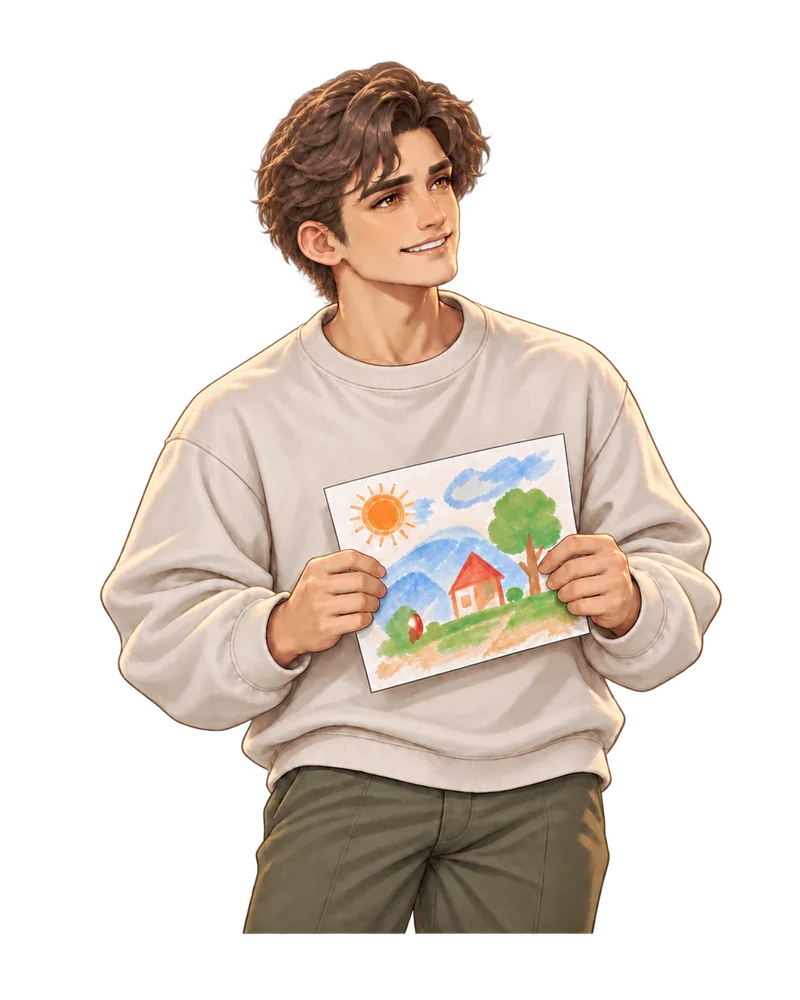
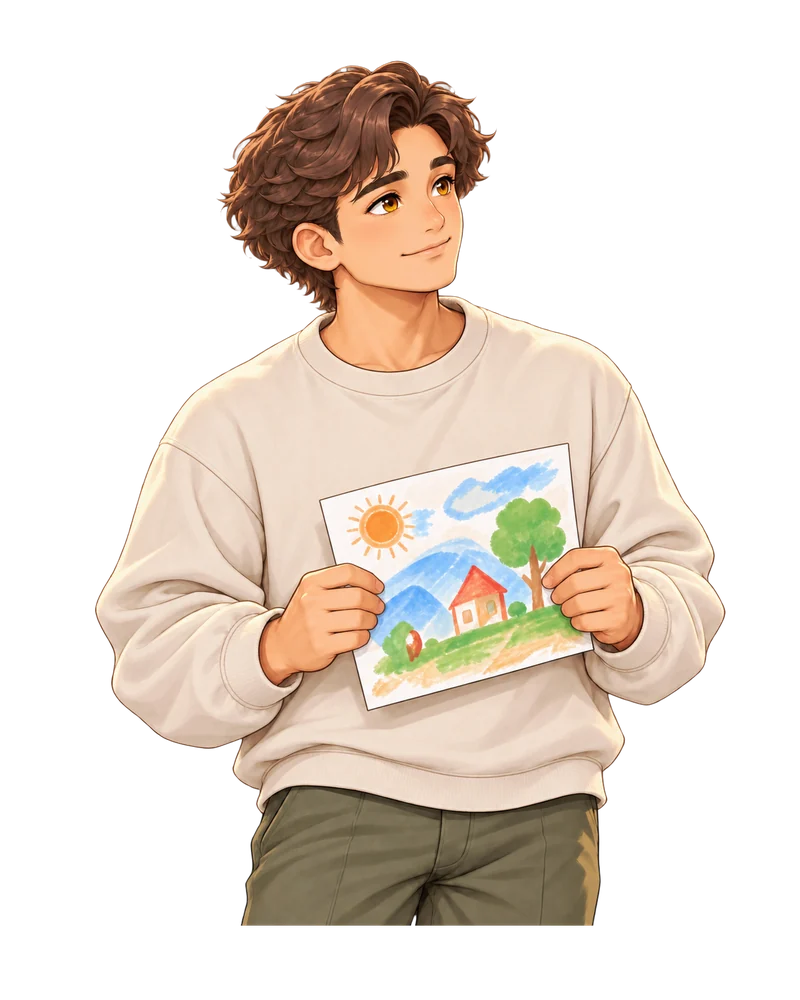
과학자 전용 음료 작업대 11종, 레온 그림 되돌림, 깨진 핀 그림 수정
- 과학자가 일반 메뉴 대신 자기 전용 음료를 주문 (첫 방문·두 번째 방문 주문이 다름)
- 작업대 조작이 발견과 이어짐: 저울(질량 보존), 여러 번 거르기, 인덕션(전자기 유도), 물시계,
  타원 붓기(케플러 제2법칙), 빈칸 맞히기(주기율표), 깜빡이는 별(주기-광도), 교배(종의 합성),
  계단 불빛(에너지 준위), 기체 무게, 둘로 나누기(핵분열)
- 과학자 주문·반응 대사를 전용 음료에 맞게 바꿈, 특별 음료 도감에서도 만들어 보기
- 레온은 표정마다 머리숱이 달라 이전 그림으로, 덜 저장된 핀 기본 표정 다시 변환

Claude-Session: https://claude.ai/code/session_01PHaqw3vR3xwnkj3Zi9aRU5

Changed region(s): [[0.0938, 0.062, 0.9062, 0.961]]

diff --git a/index.html b/index.html
@@ -1075,8 +1075,107 @@ const labT=m=>{const K=LABK[m.kind];return m.T?Object.fromEntries(m.T.map(k=>[k,
 const RAWS=k=>{const m=MENUS[k];return m.station==='extract'?D.EXTRACT_RAW[k]:m.station==='lab'?m.raw:[...new Set(m.recipe.map(RAW))]};
 const STN={extract:'추출',layer:'층 쌓기'};const stName=m=>m.station==='lab'?LABK[m.kind].st:STN[m.station];
 
-const MENUS={...D.EXTRACT,...D.LAYER,...D.LAB};
+/* ---------- 과학자 전용 음료 작업대 (설계안 '과학자 특별 음료' 표) ---------- */
+/* 각 과학자는 자기 전용 음료를 주문하고, 작업대 조작이 그 사람의 발견과 이어진다. t1 = 첫 방문 주문, t2 = 두 번째 방문 주문 */
+Object.assign(LABK,{
+ sp01:{st:'섞기 · 저울',sl:d=>[['lid','섞을 때 뚜껑',0,1,1,0,'',['열고','닫고'],['열고 섞기','닫고 섞기']],['syr','엘더플라워 시럽',10,60,5,20,'g',['조금','많이']],['stir','젓는 횟수',0,20,2,10,'번',['안 저음','많이']]],
+  model:p=>({x:p.lid?0:0.35+p.stir*0.12,y:p.syr*0.6/(250+p.syr)*100}),
+  X:['섞기 전후 무게 차이','g',0,2,0.5],Y:['단맛','%',0,14,2],
+  T:{t1:['무게는 그대로, 은은하게',[0,0.1],[4,6.6]],t2:['무게는 그대로, 조금 더 달게',[0,0.1],[6.6,9.2]]},
+  tip:{xhi:d=>'뚜껑을 열고 섞었더니 기포(이산화 탄소)가 빠져나가 무게가 줄었어요. 뚜껑을 닫고 섞어 보세요.',ylo:d=>'단맛이 부족해요. 시럽을 조금 더 넣어 보세요.',yhi:d=>'너무 달아요. 시럽을 줄여 보세요.'},
+  sci:'닫힌 용기 안에서는 섞기 전과 후의 질량이 같아요(질량 보존). 열린 용기에서는 기체가 빠져나가 가벼워진 것처럼 보일 뿐이에요.'},
+ sp02:{st:'거르기 · 여러 번',sl:d=>[['n','거르는 횟수',1,8,1,1,'번',['한 번','여러 번']],['mesh','거름망 눈 크기',0.2,1.5,0.1,1,'mm',['곱게','굵게']]],
+  model:p=>({x:100-60*Math.pow(p.mesh,0.8)*Math.pow(0.62,p.n-1),y:100*Math.pow(0.93,p.n-1)*(1-0.08*(1.5-p.mesh))}),
+  X:['맑기','%',30,100,10],Y:['남은 양','%',40,100,10],
+  T:{t1:['맑게, 그래도 넉넉하게',[85,100],[70,100]],t2:['아주 맑게, 조금만 남아도',[95,100],[45,75]]},
+  tip:{xlo:d=>'아직 탁해요. 한 번 더 거르거나 더 고운 거름망을 써 보세요.',ylo:d=>'너무 많이 걸러서 양이 줄었어요. 거르는 횟수를 줄여 보세요.'},
+  sci:'여러 번 걸러야 아주 적은 양의 순수한 것만 남아요. 퀴리는 몇 톤이나 되는 광석 찌꺼기를 거르고 또 걸러 라듐 화합물 0.1 g을 얻었어요.'},
+ sp03:{st:'녹이기 · 인덕션',sl:d=>[['pot','냄비',0,1,1,0,'',['유리','쇠'],['유리 냄비','쇠 냄비']],['pw','코일 세기',1,10,1,5,'단',['약하게','세게']],['t','데우는 시간',0,5,0.5,2,'분',['짧게','길게']]],
+  model:p=>{const T=Math.min(100,20+(p.pot?14:0.8)*p.pw*p.t);return {x:100*(1-Math.exp(-Math.max(0,T-45)/15)),y:T}},
+  X:['토피가 녹은 정도','%',0,100,20],Y:['온도','°C',20,100,10],
+  T:{t1:['토피가 다 녹게, 타지 않게',[90,100],[60,86]],t2:['따끈하게만',[85,100],[55,76]]},
+  tip:{xlo:d=>'토피가 덜 녹았어요. 유리 냄비는 코일 위에서 데워지지 않아요. 쇠 냄비로 바꾸거나 더 데워 보세요.',yhi:d=>'너무 뜨거워 토피가 탈 것 같아요. 코일을 약하게 하거나 시간을 줄여 보세요.'},
+  sci:'코일에 흐르는 전류가 빠르게 바뀌면 자기장이 바뀌고, 쇠 냄비 안에 전류가 생겨 냄비가 데워져요(전자기 유도). 유리에는 전류가 흐르지 않아 그대로예요.'},
+ sp04:{st:'추출 · 물시계',sl:d=>[['gap','위 항아리 물 채우는 간격',0,10,1,6,'분',['계속 채움','가끔']],['hole','물구멍 크기',1,5,1,3,'호',['작게','크게']]],
+  model:p=>({x:100-p.gap*7,y:0.4+0.25*(6-p.hole)-p.gap*0.02}),
+  X:['물방울 고르기','%',20,100,20],Y:['진하기','%',0.4,1.6,0.2],
+  T:{t1:['고르게, 보통 진하기',[85,100],[1.0,1.3]],t2:['끝까지 고르게, 은은하게',[90,100],[0.75,1.05]]},
+  tip:{xlo:d=>'물 높이가 낮아지면서 물방울이 점점 느려졌어요. 위 항아리를 더 자주 채워 보세요.',ylo:d=>'연해요. 물구멍을 작게 해 천천히 우려 보세요.',yhi:d=>'진해요. 물구멍을 키워 보세요.'},
+  sci:'위 항아리의 물 높이가 일정해야 아래로 떨어지는 물방울 빠르기도 일정해요. 장영실의 자격루는 여러 항아리로 물 높이를 일정하게 지켜 시간을 쟀어요.'},
+ sp05:{st:'추출 · 타원 붓기',sl:d=>[['near','가까울 때 붓는 빠르기',1,10,1,5,'',['느리게','빠르게']],['far','멀 때 붓는 빠르기',1,10,1,5,'',['느리게','빠르게']],['t','우리는 시간',1,5,0.5,3,'분',['짧게','길게']]],
+  model:p=>({x:100*Math.exp(-1.6*Math.abs(Math.log(p.near/p.far/2))),y:0.5+0.22*p.t}),
+  X:['고르게 우러난 정도','%',0,100,20],Y:['진하기','%',0.6,1.8,0.2],
+  T:{t1:['고르게, 보통 진하기',[88,100],[1.0,1.3]],t2:['고르게, 진하게',[88,100],[1.3,1.62]]},
+  tip:{xlo:d=>'고르게 우러나지 않았어요. 주전자 길은 가까운 쪽이 먼 쪽보다 두 배 가까워요. 가까울 때 두 배 빠르게 부어 보세요.',ylo:d=>'연해요. 더 오래 우려 보세요.',yhi:d=>'진해요. 우리는 시간을 줄여 보세요.'},
+  sci:'행성은 해에 가까울 때 빠르고 멀 때 느려요. 같은 시간 동안 행성과 해를 이은 선이 쓸고 가는 넓이가 같거든요(케플러 제2법칙).'},
+ sp06:{st:'층 쌓기 · 빈칸',sl:d=>[['den','빈칸에 넣을 시럽 밀도',1.00,1.30,0.01,1.05,'g/mL',['가볍게','무겁게']],['sp','붓는 빠르기',1,5,1,4,'',['천천히','빠르게']]],
+  model:p=>({x:Math.max(0,100-1200*Math.abs(p.den-1.13)-(p.sp-1)*6),y:2+(p.den-1)*30}),
+  X:['층이 또렷한 정도','%',0,100,20],Y:['단맛','%',0,12,2],
+  T:{t1:['층이 또렷하게',[85,100],[5,7]],t2:['그때처럼 또렷하게',[90,100],[5,7]]},
+  tip:{xlo:d=>'층 경계가 흐려요. 선반의 병들은 일정한 차이로 늘어서 있어요. 규칙을 따라 빈칸의 밀도를 다시 맞혀 보고, 천천히 부어 보세요.'},
+  sci:'멘델레예프는 원소를 성질 순서로 늘어놓고 규칙이 어긋나는 자리를 비워 둔 채, 아직 발견되지 않은 원소의 성질을 미리 맞혔어요. 선반의 병: 1.03 → 1.08 → ? → 1.18 → 1.23 g/mL'},
+ sp07:{st:'색·빛 · 깜빡이는 별',sl:d=>[['P','별 젤리의 깜빡임 주기',1,30,1,5,'일',['빠르게','천천히']],['dep','젤리를 띄우는 깊이',1,10,0.5,3,'칸',['가까이','멀리']]],
+  model:p=>{const x=10+30*Math.log10(p.P);return {x,y:x*10/(p.dep*p.dep)}},
+  X:['진짜 밝기','',0,60,10],Y:['보이는 밝기','',0,60,10],
+  T:{t1:['진짜로는 밝은데 멀리서 은은하게',[44,60],[4,10]],t2:['가까이 있는 작은 별처럼',[10,25],[10,30]]},
+  tip:{xlo:d=>'진짜 밝기가 어두운 별이에요. 더 천천히 깜빡이는 별을 골라 보세요.',xhi:d=>'진짜로 너무 밝은 별이에요. 더 빨리 깜빡이는 별을 골라 보세요.',ylo:d=>'너무 멀어서 거의 안 보여요. 조금 가까이 띄워 보세요.',yhi:d=>'너무 가까워서 눈부셔요. 조금 멀리 띄워 보세요.'},
+  sci:'세페이드 변광성은 천천히 깜빡일수록 진짜로 밝아요(주기-광도 관계). 진짜 밝기와 보이는 밝기를 비교하면 별까지의 거리를 알 수 있어요.'},
+ sp08:{st:'섞기 · 교배',sl:d=>[['p','구운 밤 비율 (나머지는 들깨)',0,100,5,85,'%',['들깨만','밤만']],['T','우유 온도',40,80,2,50,'°C',['미지근하게','뜨겁게']]],
+  model:p=>({x:4*(p.p/100)*(1-p.p/100)*100,y:p.T}),
+  X:['두 맛이 어우러진 정도','%',0,100,20],Y:['따뜻함','°C',40,80,10],
+  T:{t1:['두 맛이 다 나게, 따뜻하게',[85,100],[60,72]],t2:['어머니가 데워 주시던 것처럼',[80,100],[66,78]]},
+  tip:{xlo:d=>'한쪽 맛만 나요. 두 재료를 비슷하게 섞어 보세요.',ylo:d=>'미지근해요. 조금 더 데워 보세요.',yhi:d=>'너무 뜨거워요. 조금 식혀 보세요.'},
+  sci:'서로 다른 두 종을 교배하면 어느 쪽과도 다른 새 종이 생길 수 있어요. 우장춘은 배추 무리와 양배추 무리가 만나 유채가 생긴다는 걸 밝혀 "종의 합성"을 보여 줬어요.'},
+ sp09:{st:'색·빛 · 계단 불빛',sl:d=>[['E','조명 에너지 다이얼',1,10,0.5,5.5,'',['낮게','높게']],['t','비추는 시간',1,6,0.5,3,'초',['짧게','길게']]],
+  model:p=>{const n=Math.round(p.E/3)*3||3,x=100*Math.exp(-Math.pow(p.E-n,2)/0.08);return {x,y:x*p.t/10}},
+  X:['빛나는 정도','%',0,100,20],Y:['빛 세기','',0,60,10],
+  T:{t1:['푸르게 또렷이',[90,100],[28,46]],t2:['은은하게',[90,100],[9,25]]},
+  tip:{xlo:d=>'이 칸에서는 빛나지 않아요. 다이얼은 정해진 계단에서만 반응해요. 칸을 바꿔 가며 찾아보세요.',ylo:d=>'빛이 약해요. 조금 더 오래 비춰 보세요.',yhi:d=>'빛이 너무 세요. 비추는 시간을 줄여 보세요.'},
+  sci:'원자 속 전자는 정해진 에너지 계단에만 머물 수 있어요. 그래서 정해진 에너지에만 반응하고, 정해진 색의 빛만 내요(보어의 원자 모형).'},
+ sp10:{st:'탄산 · 기체 무게',sl:d=>[['T','탄산수 온도',2,25,1,15,'°C',['아주 차갑게','미지근하게']],['t','병을 열어 둔 시간',0,20,1,8,'분',['바로','오래']]],
+  model:p=>({x:2.2*(1-Math.exp(-p.t/8))*(1+(p.T-2)*0.03),y:100*Math.exp(-p.t/8)*Math.exp(-0.035*(p.T-2))}),
+  X:['빠져나간 기체 무게','g',0,4,0.5],Y:['남은 탄산','%',0,100,20],
+  T:{t1:['기체가 0.5~1 g 빠졌을 때',[0.5,1.0],[50,80]],t2:['지난번처럼',[0.5,1.0],[50,80]]},
+  tip:{xlo:d=>'기체가 거의 안 빠졌어요. 조금 더 열어 두세요.',xhi:d=>'기체가 너무 많이 빠졌어요. 열어 두는 시간을 줄이거나 더 차갑게 해 보세요.',ylo:d=>'탄산이 거의 없어요. 더 차갑게, 짧게 열어 두세요.'},
+  sci:'기체에도 무게가 있어요. 병을 열기 전과 후의 무게 차이가 빠져나간 이산화 탄소의 무게예요. 캐번디시는 여러 기체의 무게를 재다가 수소를 발견했어요.'},
+ sp11:{st:'굳히기 · 둘로 나누기',sl:d=>[['m','굳힌 크림 덩이',10,60,5,20,'g',['작게','크게']],['n','나누는 횟수',0,3,1,0,'번',['그대로','여러 번']]],
+  model:p=>({x:40+p.n*12*p.m/30,y:p.n*p.m*0.5}),
+  X:['데워진 온도','°C',30,90,10],Y:['사라진 무게','mg',0,80,20],
+  T:{t1:['반으로 나눠 따뜻하게',[55,65],[5,25]],t2:['반으로 나눠, 지난번처럼',[55,65],[5,25]]},
+  tip:{xlo:d=>'아직 미지근해요. 크림을 반으로 나눠 보세요.',xhi:d=>'너무 뜨거워요. 덜 나누거나 덩이를 작게 해 보세요.',yhi:d=>'너무 많이 쪼갰어요. 반으로만 나눠 주세요.'},
+  sci:'무거운 원자핵이 둘로 쪼개지면 조각들의 질량을 합한 값이 처음보다 아주 조금 줄고, 그만큼이 에너지가 돼요(핵분열, E = mc²). 여기서는 크게 부풀려 보여 줬어요.'}});
+D.SPM={};D.SPECIAL.forEach(s=>{D.SPM['sp'+s.id]={no:0,name:s.name,station:'lab',kind:'sp'+s.id,special:1,img:`a/sp/${s.id}_1.webp`,
+  raw:{'01':['soda','straw'],'02':['milk'],'03':['beans','milk','caramel'],'04':['herb','honey'],'05':['blacktea'],'06':['milk','red'],'07':['herb'],'08':['milk'],'09':['beans','soda'],'10':['blacktea','soda'],'11':['herb','milk']}[s.id]}});
+const MENUS={...D.EXTRACT,...D.LAYER,...D.LAB,...D.SPM};
 const C=D.CUSTOMERS, byNo=n=>C.find(c=>c.no===n);
+/* 과학자 주문과 반응: 전용 음료에 맞춘 대사 (이야기 장면은 data.js 그대로) */
+const SPLINE={
+ 31:[{order:'두 사람의 정원을 두 잔 부탁합니다. 한 잔은 아내 몫으로 포장해 주십시오. 섞기 전과 후의 무게가 똑같아야 합니다. 그 사람은 정확한 걸 좋아하거든요.',r3:'완벽합니다. 저울 눈금이 한 칸도 움직이지 않았군요.',r2:'무게가 조금 달라졌군요. 사라진 게 아니라 어디론가 빠져나간 겁니다. 뚜껑을 확인해 보시지요.'},
+     {order:'그 사람이 늘 포장해 오던 걸로 주세요. 수첩에는 "무게는 그대로, 조금 더 달게"라고 적혀 있었어요. 오늘은 여기서 마실게요. 처음으로요.',r2:'무게가 조금 달라졌네요. 그래도 사라진 건 없어요. 그 사람이 늘 하던 말이에요.'}],
+ 32:[{order:'푸른 밤의 온기로 주세요. 여러 번 걸러서 맑게요. 그래도 넉넉하게 남겨 주세요. 손은 시려도, 오늘은 이게 마시고 싶네요.',r3:'맑네요. 거르고 또 거른 맛이에요. 그 사람한테도 보여 주고 싶다.',r2:'조금 탁하네요. 괜찮아요. 저도 4년 동안 거르고 또 걸렀는걸요.'},
+     {order:'그때 그 따뜻한 거요. 이번엔 아주 맑게, 조금만 남아도 괜찮아요. 그 사람이랑 같이 오기로 했던 날 마시려던 거.',r2:'탁해도 괜찮아요. 오늘은 그냥 여기 앉아 있고 싶었어요.'}],
+ 33:[{order:'크리스마스의 작은 불씨 주세요! 토피가 다 녹게, 그런데 타지 않게요. 코일 위에 냄비를 올리면 불 없이도 데워진다면서요? 직접 보고 싶어요.',r3:'불꽃도 없는데 쇠 냄비가 데워졌어요! 전기와 자석이 열을 만든 거죠? 노트에 적어 둘게요.',r2:'토피가 덜 녹았네요. 냄비 탓일까요? 왜 그랬는지도 적어 둘게요.'},
+     {order:'그때 그 따뜻한 거요. 오늘은 따끈하게만요. 마시기 전에 냄비부터 한참 볼게요.',r2:'조금 아쉽네요. 괜찮아요. 왜 그랬는지 설명하는 것도 강연이 되니까요.'}],
+ 34:[{order:'물방울의 시간을 한 잔 내어 주시겠소? 위 항아리의 물이 줄지 않게 지켜 주시오. 물이 고르게 떨어져야 맛도 고르오.'},
+     {order:'지난번에 마신 것, 그것으로 한 잔 더 주시오. 이번에는 은은하게. 물방울 소리를 끝까지 듣고 가겠소.'}],
+ 35:[{order:'혜성의 귀환이요. 주전자를 타원으로 돌리면서 부어 주세요. 가까울 땐 빠르게, 멀 땐 천천히요. 그래야 고르게 우러나요.',r3:'고르게 우러났네요. 궤도도 이렇게 딱 맞아떨어지면 좋을 텐데.',r2:'고르지 않네요. 제 머릿속 같아요. 가까운 데서 더 빨랐어야 했나 봐요.'},
+     {order:'이번에는 두 잔이요. 진하게요. 하나는 포장으로요. 어머니 드릴 거예요. 잔소리 들어도 괜찮아요. 이제는.',r2:'조금 아쉽지만 괜찮아요. 어머니는 맛보다 제가 온 걸 더 좋아하실 테니까.'}],
+ 36:[{order:'마지막 한 칸을 주시오. 선반의 병들이 일정한 차이로 늘어서 있지 않소? 빈자리에 들어갈 병을 맞혀서, 층이 또렷하게.',r3:'보시오! 빈칸을 맞히니 층이 또렷하잖소. 원소도 마찬가지요.',r2:'흐릿하군. 빈칸을 잘못 짚었다는 뜻이지. 내 카드처럼.'},
+     {order:'오늘은 두 잔 주시오. 그때처럼 또렷하게. 하나는 그냥 여기 두고 가겠소.',r3:'하나도 흐리지 않군. 어머니가 보셨으면 좋아하셨을 거요.',r2:'조금 흐리군. 괜찮소. 오늘은 무엇도 나를 속상하게 못 하오.'}],
+ 37:[{order:'별이 숨 쉬는 밤 주세요. 컵 속 별 젤리 중에, 진짜로는 밝은데 멀리 있어서 은은하게 보이는 별로요. 깜빡이는 빠르기를 보면 알 수 있어요.',r3:'맞아요. 천천히 깜빡이는 별이 진짜로 밝은 별이에요. 정확하네요.',r2:'음, 이 별은 아닌 것 같아요. 깜빡임을 다시 세어 볼까요?'},
+     {order:'그때 그거요. 이번엔 가까이 있는 작은 별처럼요.'}],
+ 38:[{order:'씨앗이 잠든 샘으로 주세요. 밤이랑 들깨가 둘 다 느껴지게, 따뜻하게요. 어릴 때 어머니가 우유를 자주 데워 주셨거든요.',r3:'두 맛이 만나서 새 맛이 됐네요. 어머니한테 편지로 써 보내야겠어요.',r2:'한쪽 맛만 나네요. 괜찮아요. 섞여야 강해진다니까요.'},
+     {order:'그때 그 따뜻한 우유로 주세요. 어머니가 데워 주시던 것처럼요.'}],
+ 39:[{order:'금빛의 귀환 한 잔 주세요. 불빛 다이얼을 돌리다 보면 딱 맞는 칸에서만 푸르게 빛날 거예요. 오늘은 정신을 바짝 차려야 해서요.',r3:'딱 그 칸에서 빛나네요. 고맙습니다. 손 떨림이 좀 멎네요.'},
+     {order:'그때 그 금빛으로 주세요. 오늘은 은은하게요.',r3:'고맙습니다. 녹여도 사라지지 않는 것도 있네요.'}],
+ 40:[{order:'(새 쪽지) 정원 끝의 쪽지. 탄산수 병, 열기 전후 무게 잴 것. 기체가 0.5~1 g 빠졌을 때 낼 것.',r2:'(찻잔 밑에 쪽지가 놓여 있다) 무게 오차 있음. 다음엔 정확히.'},
+     {order:'(새 쪽지) 정원 끝의 쪽지. 지난번처럼.'}],
+ 41:[{order:'국경 너머의 온기로 주세요. 굳힌 크림을 반으로 나눠 주실 수 있어요? 반은 지금, 반은 이따가. 이제 아껴서 살아야 하거든요.'},
+     {order:'한 잔을 둘로 나눠 주세요. 지난번처럼요.'}]};
+C.forEach(c=>{if(!c.sci)return;c.menu='sp'+c.sci;const L=SPLINE[c.companion||c.no];if(L&&!c.companion){Object.assign(c.ep1,L[0]);Object.assign(c.ep2,L[1])}});
+const drinkImg=m=>m.img||`a/m/${String(m.no).padStart(2,'0')}.webp`;
+
+
 const REG=C.filter(c=>!c.hidden&&!c.sci).map(c=>c.no),SCI=C.filter(c=>c.sci&&!c.companion);
 const SEQ=(()=>{const q=[];SCI.forEach((c,i)=>{q.push([c.no,0]);if(i>0)q.push([SCI[i-1].no,1])});q.push([SCI[SCI.length-1].no,1]);return q})();
 const sciDone=no=>{const c=byNo(no);return (S.sciDone||[]).includes(c&&c.companion||no)};
@@ -1301,6 +1400,7 @@ function startCustomer(){
     cur=c;cur.isNew=isNew;tastes=0;S.turn++;cur.revealed=c.sci?sciDone(c.no):!((S.visits[c.no]||0)===0&&c.ep1.anon);cur.spr=((S.visits[c.no]||0)===1&&c.ep2.sprite)||c.no;
     sceneMode(c.sci?'fullmoon':c.no===28?(firstHidden?'merlinEvent':'merlin'):c.no===30?(firstHidden?'eliasEvent':'elias'):slotMode());
     const v=S.visits[c.no]||0;cur.ep=v===0?'ep1':v===1?'ep2':'again';S.visits[c.no]=v+1;
+    if(c.sci)cur.target=cur.ep==='ep1'?'t1':'t2';
     if(cur.ep==='again'&&!c.sci&&Math.random()<0.7){cur={...c,ep:'again',isNew,revealed:cur.revealed,spr:cur.spr};altOrder()}
     if(!S.met.includes(c.no))S.met.push(c.no);
     C.filter(x=>x.companion===c.no).forEach(x=>{if(cur.ep==='ep2'&&!S.met.includes(x.no)){S.met.push(x.no);S.visits[x.no]=1}});
@@ -1337,7 +1437,7 @@ function order(){
 }
 function reaction(st,pay,hints){
   sheet(null);
-  const m=MENUS[cur.menu];const sv=$('served');const src=`a/m/${pad(m.no)}.webp`;sv.src=src;sv.alt=m.name;sv.classList.toggle('muddy',m.station==='layer'&&st<3);sv.hidden=true;
+  const m=MENUS[cur.menu];const sv=$('served');const src=drinkImg(m);sv.src=src;sv.alt=m.name;sv.classList.toggle('muddy',m.station==='layer'&&st<3);sv.hidden=true;
   sv.hidden=false;rewardPop(S5(st),pay);
   face(st===3?'h':st===2?'d':'d');
   const t=st===3?(cur.alt?cur.alt.r3:EP().r3):st===2?(cur.alt?cur.alt.r2:EP().r2):'음… 제가 주문한 거랑은 조금 다른 것 같아요.';
@@ -1408,7 +1508,7 @@ function ticket(){const m=MENUS[cur.menu];
   if(m.station==='extract')pills=`<span class="pill">${D.STRENGTH[cur.strength]}</span><span class="pill alt">${D.TASTE[cur.menu][cur.taste]}</span>${cur.menu==='coldbrew'?'<span class="pill" style="background:#FFF4E2;color:#7A5426">소금 크림 위에 띄우기</span>':''}`;
   else if(m.station==='lab')pills=`<span class="pill">${labT(m)[cur.target][0]}</span><span class="pill alt">${LABK[m.kind].st} 작업대</span>`;
   else pills=[...cur.items].sort(()=>Math.random()-.5).map(id=>{const l=m.shelf.find(x=>x.id===id);return `<span class="pill"><span class="dot" style="background:${l.hex}"></span>${l.nm}</span>`}).join('');
-  return `<img src="a/m/${pad(m.no)}.webp" alt=""><div><div class="lbl">ORDER · ${cur.name}</div><div class="what">${m.name}</div><div class="pills">${pills}</div></div><button class="btn" id="sheetToggle">손님 보기</button>`;
+  return `<img src="${drinkImg(m)}" alt=""><div><div class="lbl">ORDER · ${cur.name}</div><div class="what">${m.name}</div><div class="pills">${pills}</div></div><button class="btn" id="sheetToggle">손님 보기</button>`;
 }
 function openStation(){const m=MENUS[cur.menu];if(m.station==='extract')openExtract(m);else if(m.station==='lab')openLab(m);else openLayer(m);sheet('open');
   const raws=RAWS(cur.menu);if(!has(raws,NEED))noStock(raws,NEED)}
@@ -1637,7 +1737,7 @@ function labBrew(m){const K=LABK[m.kind],sl=K.sl(m),raws=m.raw;if(!has(raws,NEED
   const chg=prev?sl.filter(s=>prev.p[s[0]]!==p[s[0]]):null;
   const cap=!prev?'첫 시음':chg.length===0?'조건을 바꾸지 않았어요':chg.length===1?`바꾼 변인: ${chg[0][1]} ${lfmt(chg[0])(prev.p[chg[0][0]])} → ${lfmt(chg[0])(p[chg[0][0]])}`:`변인을 ${chg.length}개 바꿨어요. 무엇 때문에 달라졌는지 가리기 어려워요`;
   $('tries').textContent=`시음 ${tastes}회`;
-  $('xres').innerHTML=`<div class="result pop"><img class="tcup" src="a/m/${pad(m.no)}.webp" alt="${m.name}" style="${labCup(m,r)}"><div class="taste">
+  $('xres').innerHTML=`<div class="result pop"><img class="tcup" src="${drinkImg(m)}" alt="${m.name}" style="${labCup(m,r)}"><div class="taste">
     <div class="meter"><span>${xl}</span><b>${+r.x.toFixed(1)}${xu?' '+xu:''}</b></div><div class="meter"><span>${yl}</span><b>${+r.y.toFixed(2)}${yu?' '+yu:''}</b></div>
     <div><b>${a&&b?'손님 취향에 딱 맞아요':a||b?'조금만 더 맞추면 돼요':'손님 취향과 거리가 있어요'}</b></div><div style="color:var(--muted);font-size:13px">${cap}</div></div></div>`;
   $('serveX').disabled=false;drawLab(m);}
@@ -1669,7 +1769,7 @@ function setOrder(o,k){const m=MENUS[k];o.menu=k;
 function orderLine(o){const m=MENUS[o.menu];
   const what=m.station==='extract'?`${D.STRENGTH[o.strength]}, ${D.TASTE[o.menu][o.taste]}`:m.station==='layer'?`${o.items.map(id=>m.shelf.find(x=>x.id===id).col).join(', ')} 층이 다 보이게`:labT(m)[o.target][0];
   return pickR([`오늘은 ${jo(m.name,'을/를')} 마셔 볼래요. ${what}요.`,`${m.name} 한 잔 부탁해요. ${what}요.`,`메뉴판 보다가 눈에 띄었어요. ${m.name}, ${what}요.`])}
-function altOrder(){const keys=Object.keys(MENUS).filter(k=>S.enabled[k]!==false&&k!==cur.menu);if(!keys.length)return;
+function altOrder(){const keys=Object.keys(MENUS).filter(k=>!MENUS[k].special&&S.enabled[k]!==false&&k!==cur.menu);if(!keys.length)return;
   const fresh=keys.filter(k=>!(S.menuServed[k]>0)),k=pickR(fresh.length&&Math.random()<0.7?fresh:keys);
   setOrder(cur,k);cur.alt={order:orderLine(cur),r3:pickR(['와, 딱 제가 원하던 맛이에요.','이거예요, 이거! 다음에도 이걸로 할래요.','처음 마셔 보는데 마음에 쏙 들어요.']),
     r2:pickR(['음, 조금 아쉽지만 괜찮아요.','생각했던 맛이랑은 살짝 달라요. 그래도 잘 마실게요.']),bye:pickR(['잘 마셨어요. 또 올게요.','다음엔 다른 것도 마셔 볼래요.','오늘도 고마워요.'])}}
@@ -1773,7 +1873,8 @@ function renderMenus(){
   $('menus').querySelectorAll('.mcard[data-no]').forEach(el=>{const go=()=>openMdet(+el.dataset.no);el.addEventListener('click',go);el.addEventListener('keydown',e=>{if(e.key==='Enter'||e.key===' '){e.preventDefault();go()}})});
 }
 function openSpDet(id){const s=D.SPECIAL.find(x=>x.id===id),v=(S.special||{})[id]||1,m=$('mdet'),done=sciDone(30+ +id);
-  m.innerHTML=`<div class="mdc sp pop"><button class="mdx" aria-label="설명 닫기">✕</button><img src="a/sp/${id}_${v>=2?2:1}.webp" alt="${s.name}"><span class="num">보름달의 기록 · ${id}</span><h3>${s.name}</h3><div class="orn"></div><div class="ing">${s.ing}</div><p>${s.line}</p><span class="tag">${done?s.who:'이야기가 끝나면 손님 이름이 새겨져요'}</span></div>`;
+  m.innerHTML=`<div class="mdc sp pop"><button class="mdx" aria-label="설명 닫기">✕</button><img src="a/sp/${id}_${v>=2?2:1}.webp" alt="${s.name}"><span class="num">보름달의 기록 · ${id}</span><h3>${s.name}</h3><div class="orn"></div><div class="ing">${s.ing}</div><p>${s.line}</p><span class="tag">${LABK['sp'+id].st} 작업대 · ${done?s.who:'이야기가 끝나면 손님 이름이 새겨져요'}</span><button class="btn go mtry" id="mTry">작업대에서 만들어 보기</button></div>`;
+  $('mTry').addEventListener('click',e=>{e.stopPropagation();practice('sp'+id)});
   m.hidden=false;m.onclick=e=>{if(e.target===m||e.target.closest('.mdx'))m.hidden=true};}
 function openMdet(no){
   const b=D.BOOK.find(x=>x.no===no),m=$('mdet');
